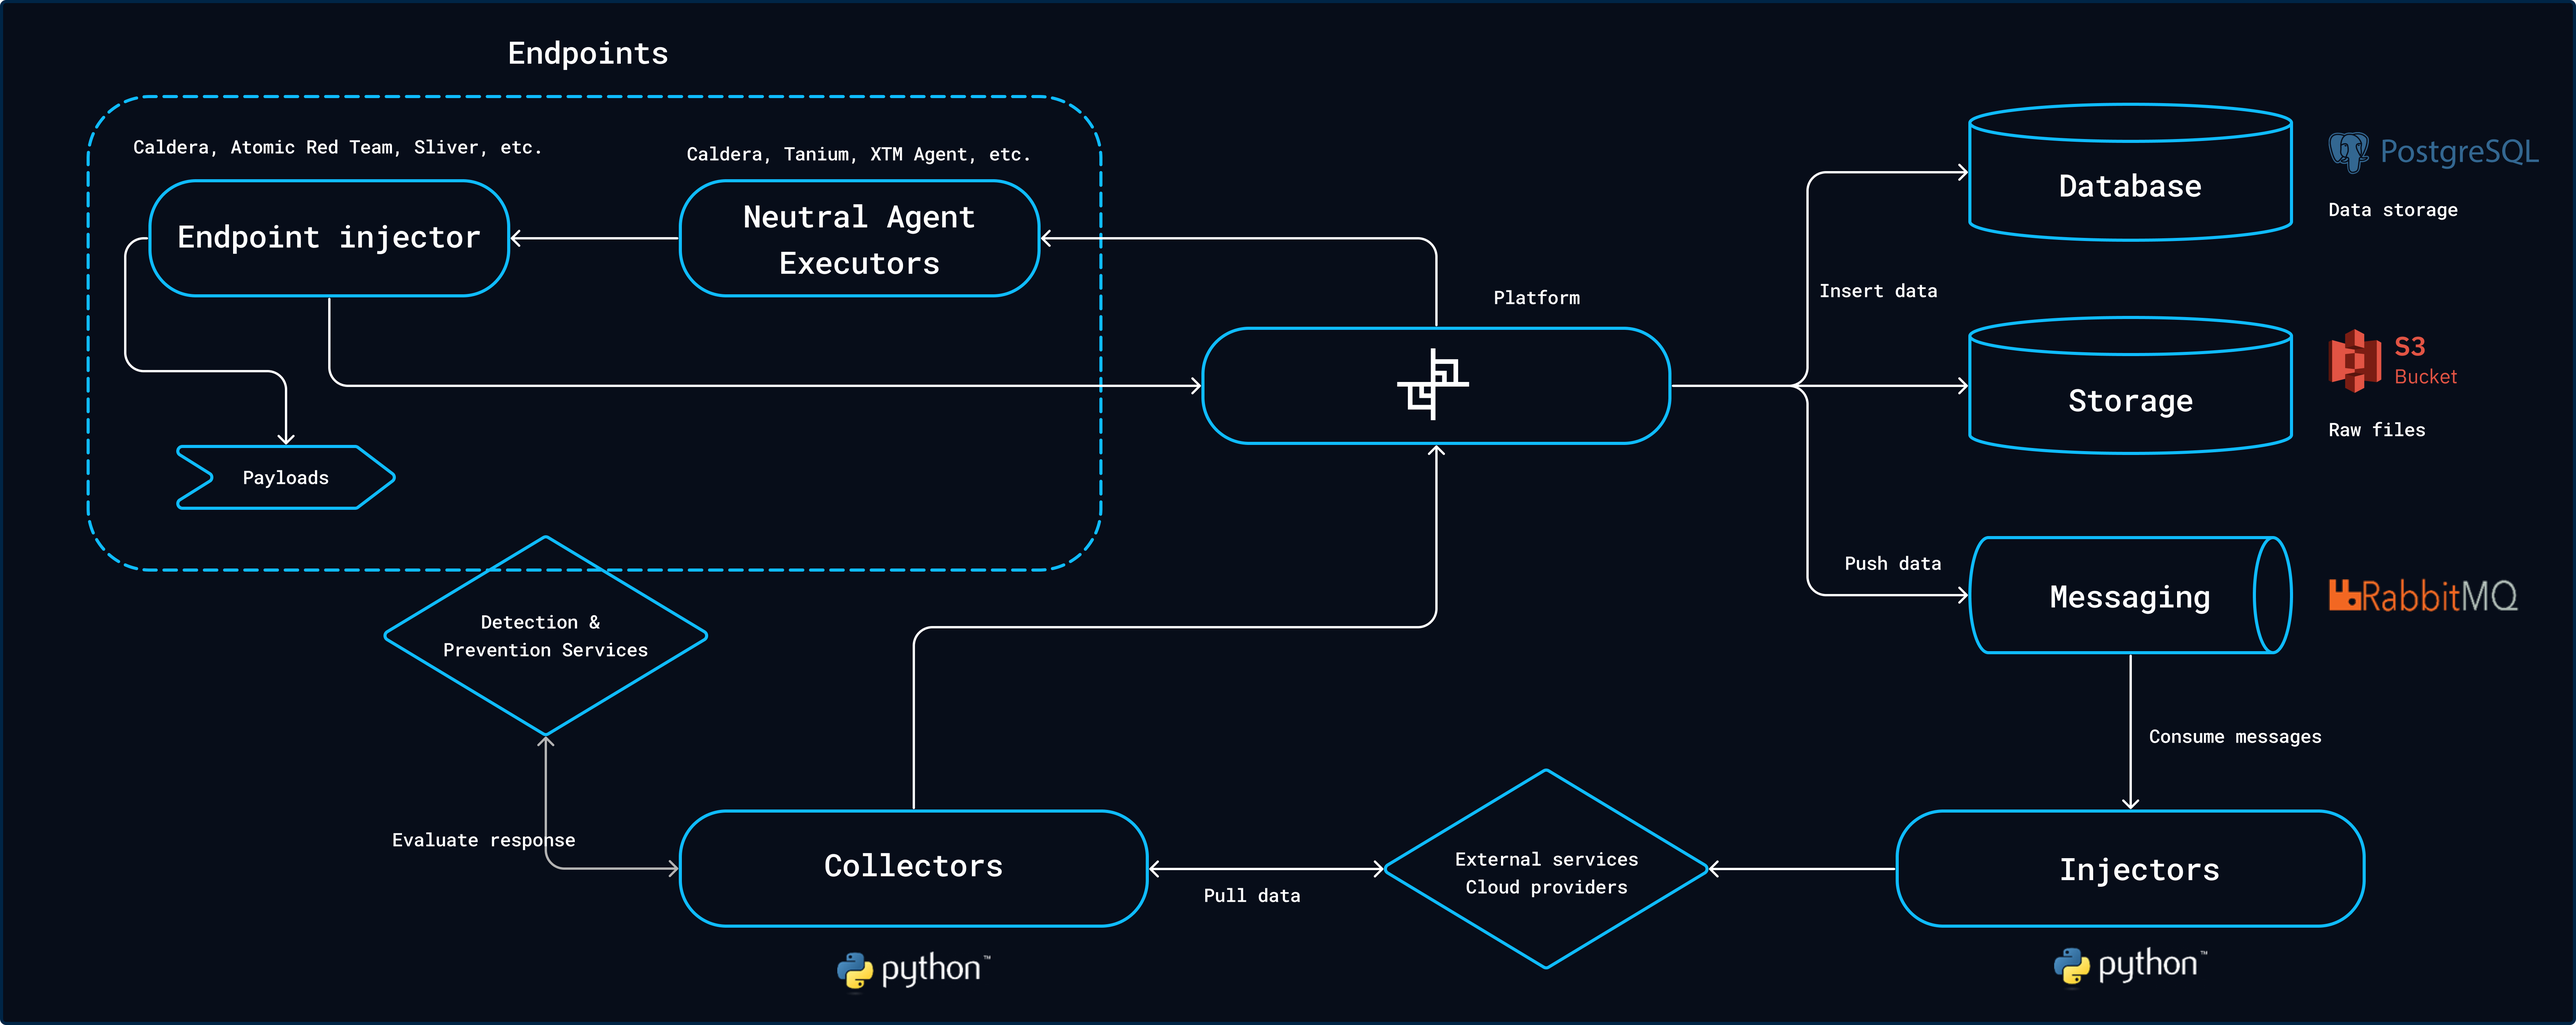
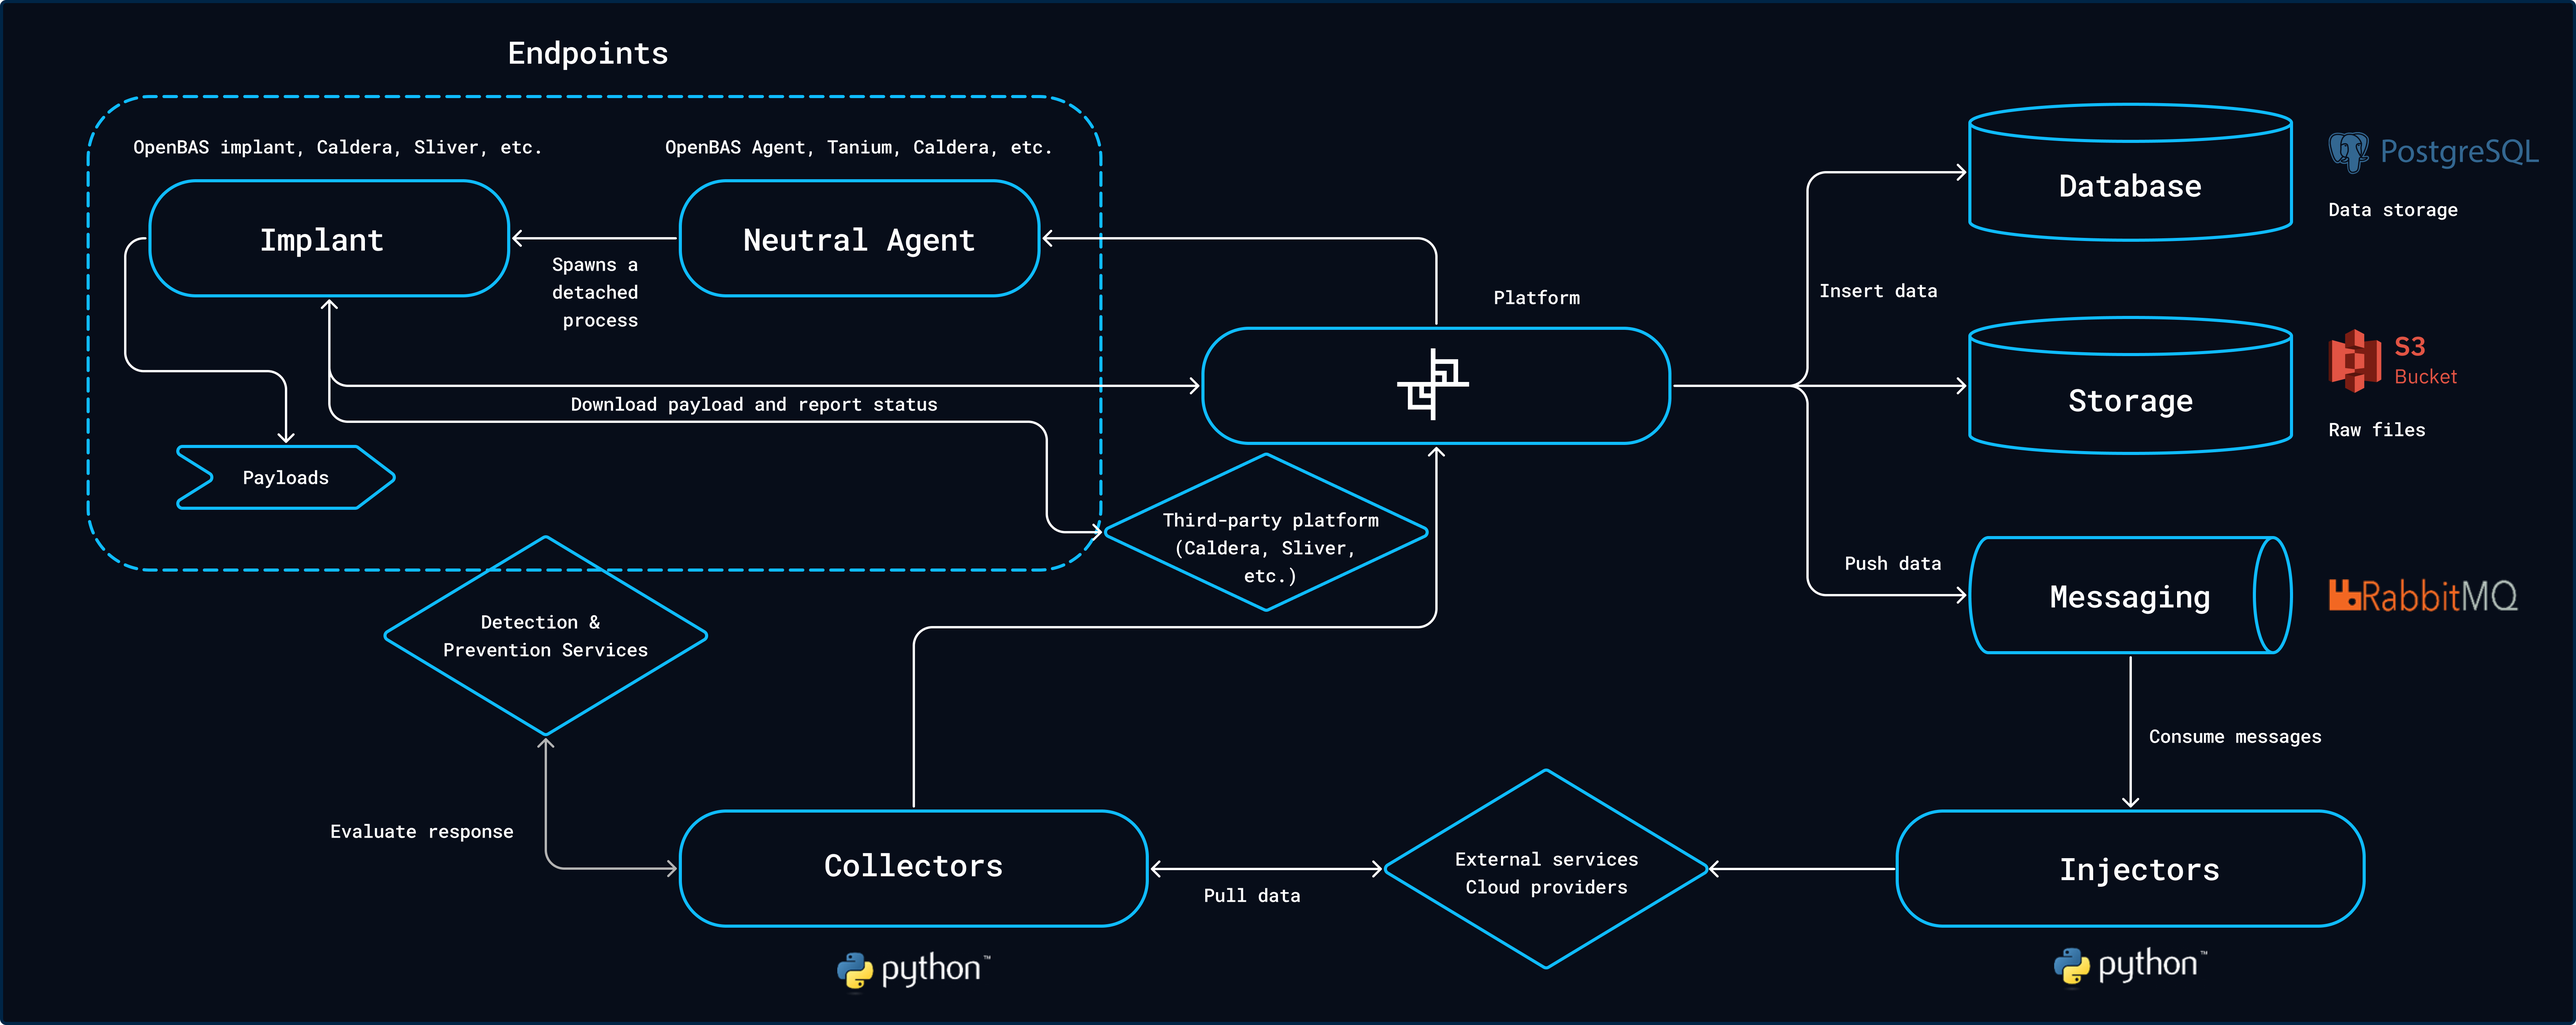
[deployment] Introduce new documentation for executors config

diff --git a/docs/deployment/executors.md b/docs/deployment/executors.md
@@ -1,0 +1,151 @@
+# Executors
+
+## Introduction
+
+To be able to use the power of the OpenBAS platform on endpoints, you need at least one **neutral executor** that will be in charge of executing implants as detached processes. Implants will then execute payloads.
+
+![Architecture](assets/architecture.png)
+
+## OpenBAS Agent
+
+The OpenBAS agent is enabled by default and cannot be disabled. It is available for:
+
+- Windows (`x86_64` / `arm64`)
+- Linux (`x86_64` / `arm64`)
+- MacOS (`x86_64` / `arm64`)
+
+## Tanium Agent
+
+The Tanium agent can be leveraged to execute implants as detached processes that will the execute payloads according to the [OpenBAS architecture](https://docs.opencti.io/latest/deployment/overview).
+
+### Configure the Tanium Platform
+
+First of all, we are providing [2 Tanium packages](https://github.com/OpenBAS-Platform/openbas/blob/master/openbas-framework/src/main/java/io/openbas/executors/tanium/openbas-tanium-packages.json) to be imported in the Tanium platform.
+
+![Tanium Packages](assets/tanium-packages.png)
+
+!!! warning "Tanium package configuration"
+
+    Because OpenBAS should run implants as detached processed, you must uncheck the box "Launch this package command in a process group" in the package configuration:
+
+    ![Tanium Package](assets/tanium-package.png)
+
+Once configured and imported, retrieve the package IDs from the URL `ui/console/packages/XXXXX/preview`.
+
+### Configure the OpenBAS platform
+
+To use the Tanium executor, just fill the following configuration.
+
+| Parameter                          | Environment variable               | Default value | Description                                     |
+|:-----------------------------------|:-----------------------------------|:--------------|:------------------------------------------------|
+| executor.tanium.enable             | EXECUTOR_TANIUM_ENABLE             | `false`       | Enable the Tanium executor                      |
+| executor.tanium.url                | EXECUTOR_TANIUM_URL                |               | Tanium URL                                      |
+| executor.tanium.api-key            | EXECUTOR_TANIUM_API-KEY            |               | Tanium API key                                  |
+| executor.tanium.computer-group-id  | EXECUTOR_TANIUM_COMPUTER_GROUP_ID  |               | Tanium Computer Group to be used in simulations |
+| executor.tanium.windows-package-id | EXECUTOR_TANIUM_WINDOWS_PACKAGE_ID |               | ID of the OpenBAS Tanium Windows package        |
+| executor.tanium.unix-package-id    | EXECUTOR_TANIUM_UNIX_PACKAGE_ID    |               | ID of the OpenBAS Tanium Unix package           |
+
+!!! note "Tanium API Key"
+
+    Please note that the Tanium API key should have the permissions to retrieve endpoint list from the Tanium GraphQL API as well as to launch packages on endpoints.
+
+### Checks
+
+Once enabled, you should see Tanium available in your `Install agents` section
+
+![Agents](assets/agents.png)
+
+Also, the assets in the selected computer groups should now be available in the endpoints section in OpenBAS:
+
+![Endpoints](assets/tanium-endpoints.png)
+
+!!! success "Installation done"
+
+    You are now ready to leverage your Tanium platform to run OpenBAS payloads!
+
+## Caldera Agent
+
+The Caldera agent can be leveraged to execute implants as detached processes that will the execute payloads according to the [OpenBAS architecture](https://docs.opencti.io/latest/deployment/overview).
+
+!!! note "Caldera already installed"
+
+    If you already have a working Caldera installation, just go directly to [OpenBAS configuration section](#openbas-configuration).
+
+### Deploy Caldera
+
+To deploy Caldera, you can just add Caldera to the OpenBAS stack, we advise you to modify your `docker-compose.yml` and add a [Caldera service](https://github.com/OpenBAS-Platform/caldera/blob/filigran/docker/docker-compose.yml):
+
+```
+services:
+  caldera:
+    image: openbas/caldera-server:5.0.0
+    restart: always
+    ports:
+      - "8888:8888"
+    environment:
+      CALDERA_URL: http://localhost:8888
+    volumes:
+      - type: bind
+        source: caldera.yml
+        target: /usr/src/app/conf/local.yml
+```
+
+As you can see in the configuration, you will also need a configuration file [caldera.yml](https://github.com/OpenBAS-Platform/caldera/blob/filigran/docker/caldera.yml) because Caldera does not support well environment variables for configuration.
+
+Download [caldera.yml](https://github.com/OpenBAS-Platform/caldera/blob/filigran/docker/caldera.yml) and put it alongside your `docker-compose.yml` file. This file must be modified prior launching, only change what is marked as **Change this**, listed below.
+
+```yaml
+users:
+  red:
+    red: ChangeMe                                                                     # Change this
+  blue:
+    blue: ChangeMe                                                                    # Change this
+api_key_red: ChangeMe                                                                 # Change this
+api_key_blue: ChangeMe                                                                # Change this
+api_key: ChangeMe                                                                     # Change this
+crypt_salt: ChangeMe                                                                  # Change this
+encryption_key: ChangeMe                                                              # Change this
+app.contact.http: http://caldera.myopenbas.myorganization.com:8888                    # Change this
+app.contact.tunnel.ssh.user_password: ChangeMe                                        # Change this
+```
+
+Just update your stack and check Caldera is running:
+
+```bash
+docker compose up -d
+```
+
+### OpenBAS configuration
+
+Then, just change the OpenBAS configuration as follow:
+
+| Parameter                   | Environment variable        | Default value | Description                                                                                  |
+|:----------------------------|:----------------------------|:--------------|:---------------------------------------------------------------------------------------------|
+| executor.caldera.enable     | EXECUTOR_CALDERA_ENABLE     | `false`       | Enable the Caldera executor           						                               |
+| executor.caldera.url        | EXECUTOR_CALDERA_URL        |               | Caldera URL                           													   |
+| executor.caldera.public-url | EXECUTOR_CALDERA_PUBLIC-URL |               | Caldera URL accessible from endpoints (ex: http://caldera.myopenbas.myorganization.com:8888) |
+| executor.caldera.api-key    | EXECUTOR_CALDERA_API-KEY    |               | Caldera API key                                                                              |
+
+### Agents
+
+#### Deploy agents
+
+Once enabled, you should see Caldera available in your `Install agents` section:
+
+![Agents](assets/agents.png)
+
+OpenBAS has built-in instruction if you want command line examples to deploy the agent on one endpoint.
+
+![Caldera deploy agents](assets/caldera-deploy-agent.png)
+
+!!! warning "Caldera AV detection"
+    
+    By default, the Caldera agent "Sandcat" is detected and blocked by antivirus. Here, we are using Caldera as a neutral executor that will execute implants that will execute payloads, so you need to add the proper AV exclusions as instructed in the OpenBAS screen.
+
+    ![Caldera AV exclusion](assets/caldera-av.png)
+
+#### Checks
+
+All assets with a proper Caldera agent installed using the OpenBAS provided command line (then persistent) should now be available in the OpenBAS endpoints list.
+
+![Endpoints](assets/caldera-endpoints.png)

diff --git a/docs/deployment/configuration.md b/docs/deployment/configuration.md
@@ -104,7 +104,7 @@ Here are the configuration keys, for both containers (environment variables) and
 
 #### Agents (executors)
 
-To be able to use the power of the OpenBAS platform on endpoints, you need at least one executor that will be in charge of spawing temporary processes (endpoint injectors) which will execute payloads.
+To be able to use the power of the OpenBAS platform on endpoints, you need at least one **neutral executor** that will be in charge of executing implants as detached processes. Implants will then execute payloads.
 
 ##### OpenBAS Agent
 
@@ -114,29 +114,9 @@ The OpenBAS agent is enabled by default and cannot be disabled. It is available 
 - Linux (`x86_64` / `arm64`)
 - MacOS (`x86_64` / `arm64`)
 
-##### Tanium
+##### Other executors
 
-!!! note "Tanium Packages"
-
-    To use the Tanium executor, please install the [OpenBAS packages](https://github.com/OpenBAS-Platform/openbas/blob/master/openbas-framework/src/main/java/io/openbas/executors/tanium/openbas-tanium-packages.json) on the Tanium platform and fill their IDs in the configuration below.
-
-| Parameter                          | Environment variable               | Default value | Description                                     |
-|:-----------------------------------|:-----------------------------------|:--------------|:------------------------------------------------|
-| executor.tanium.enable             | EXECUTOR_TANIUM_ENABLE             | `false`       | Enable the Tanium executor                      |
-| executor.tanium.url                | EXECUTOR_TANIUM_URL                |               | Tanium URL                                      |
-| executor.tanium.api-key            | EXECUTOR_TANIUM_API-KEY            |               | Tanium API key                                  |
-| executor.tanium.computer-group-id  | EXECUTOR_TANIUM_COMPUTER_GROUP_ID  |               | Tanium Computer Group to be used in simulations |
-| executor.tanium.windows-package-id | EXECUTOR_TANIUM_WINDOWS_PACKAGE_ID |               | ID of the OpenBAS Tanium Windows package        |
-| executor.tanium.unix-package-id    | EXECUTOR_TANIUM_UNIX_PACKAGE_ID    |               | ID of the OpenBAS Tanium Unix package           |
-
-##### Caldera
-
-| Parameter                   | Environment variable        | Default value | Description                           |
-|:----------------------------|:----------------------------|:--------------|:--------------------------------------|
-| executor.caldera.enable     | EXECUTOR_CALDERA_ENABLE     | `false`       | Enable the Caldera executor           |
-| executor.caldera.url        | EXECUTOR_CALDERA_URL        |               | Caldera URL                           |
-| executor.caldera.public-url | EXECUTOR_CALDERA_PUBLIC-URL |               | Caldera URL accessible from endpoints |
-| executor.caldera.api-key    | EXECUTOR_CALDERA_API-KEY    |               | Caldera API key                       |
+To know more about other available executors, please refer to the [executors documentation](./executors.md)
 
 #### Mail services
 

diff --git a/docs/deployment/installation.md b/docs/deployment/installation.md
@@ -112,11 +112,8 @@ OPENBAS_ADMIN_TOKEN=ChangeMe
 CALDERA_PUBLIC_URL=http://localhost:8888 # Change me for production deployment to something accessible from your endpoint(s)
 CALDERA_API_KEY=ChangeMe
 COLLECTOR_MITRE_ATTACK_ID=3050d2a3-291d-44eb-8038-b4e7dd107436 # No need for change
+COLLECTOR_ATOMIC_RED_TEAM_ID=0f2a85c1-0a3b-4405-a79c-c65398ee4a76 # No need for change
 ```
-
-!!! note "Caldera public URL"
-
-    For production deployment, the Caldera public URL needs to be accessible from the machines where you would like to play breach and attack simulations scenarios.
 
 If your `docker-compose` deployment does not support `.env` files, just export all environment variables before launching the platform:
 

diff --git a/docs/deployment/injectors.md b/docs/deployment/injectors.md
@@ -8,8 +8,6 @@
 
 Injectors are one of the cornerstones of the OpenBAS platform, they are responsible for pushing simulation actions to third party systems. According to their functionality and use case, they are categorized in the following classes.
 
-![injectors](assets/injectors.png)
-
 ### 📡 Endpoint payloads execution
 
 Those injectors are special as they required an executor (neutral agent) to be launched on endpoints. When they register to the platform, they inform available executors on how to spawn them on the 3 currently supported platforms: Windows, Linux and MacOS.
